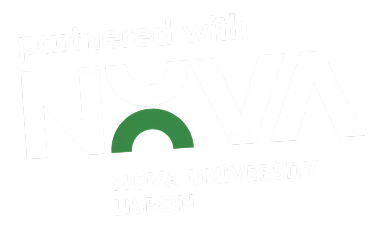
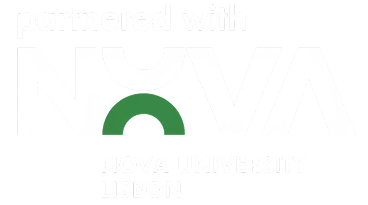
feat: update PartnersSection component; enhance layout, integrate new images, and improve interactivity

Changed region(s): [[0.269, 0.439, 0.4783, 0.6732], [0.3587, 0.5268, 0.5082, 0.6732]]

diff --git a/src/components/sections/PartnersSection.tsx b/src/components/sections/PartnersSection.tsx
@@ -1,127 +1,233 @@
+import { useState } from "react";
 import { motion } from "framer-motion";
 import { Button } from "../ui/Button";
-import NOVALogo from "../../assets/svg/menu-logo-nova.svg";
-import CoventryLogo from "../../assets/svg/menu-logo-coventry.svg";
+
+import imgNova from "../../assets/media/universities-university-image.jpeg";
+import NOVALogo from "../../assets/media/image 29.png";
+import CoventryLogo from "../../assets/media/image 30.png";
+import imgCoventry from "../../assets/media/universities-university-image-1.jpeg";
 
 export const PartnersSection = () => {
+  const [hoveredCard, setHoveredCard] = useState<string | null>(null);
+
   const partners = [
+    {
+      id: "coventry-1",
+      name: "Coventry University",
+      logo: CoventryLogo,
+      image: imgCoventry,
+      rotation: 5,
+      position: "top-left",
+      smallOverlayType: "stats",
+      stats: [
+        {
+          title: "5 stars",
+          desc: "Overall Rating & Internationalization QS Stars University Ratings",
+        },
+        {
+          title: "Queen's Award",
+          desc: "For Enterprise International Trade 2022",
+        },
+        {
+          title: "12th on world",
+          desc: "for international outlook The Young University Rankings 2024",
+        },
+      ],
+      link: "#",
+    },
     {
       id: "nova",
       name: "NOVA University",
       logo: NOVALogo,
-      image: "https://images.unsplash.com/photo-1564069114553-7215e1ff1890?q=80&w=1200&auto=format&fit=crop",
+      image: imgNova,
+      rotation: -5,
+      position: "top-right",
+      smallOverlayType: "logo",
       stats: [
-        { title: "5 stars", desc: "Overall Rating & Internationalization QS Stars University Ratings" },
-        { title: "Queen's Award", desc: "For Enterprise International Trade 2022" },
-        { title: "12th on world", desc: "for international outlook The Young University Rankings 2024" }
+        { title: "Top 10", desc: "Best Young Universities in Europe" },
+        { title: "Triple Crown", desc: "Accreditation for Business School" },
+        { title: "Global Reach", desc: "Extensive international network" },
       ],
-      link: "#"
+      link: "#",
     },
     {
-      id: "coventry",
+      id: "coventry-2",
+      name: "Coventry University",
+      logo: NOVALogo,
+      image: imgNova,
+      rotation: -5,
+      position: "bottom-left",
+      smallOverlayType: "stats",
+      stats: [
+        {
+          title: "5 stars",
+          desc: "Overall Rating & Internationalization QS Stars University Ratings",
+        },
+        {
+          title: "Queen's Award",
+          desc: "For Enterprise International Trade 2022",
+        },
+        {
+          title: "12th on world",
+          desc: "for international outlook The Young University Rankings 2024",
+        },
+      ],
+      link: "#",
+    },
+    {
+      id: "coventry-3",
       name: "Coventry University",
       logo: CoventryLogo,
-      image: "https://images.unsplash.com/photo-1606761568499-6d2451b23c66?q=80&w=1200&auto=format&fit=crop",
+      image: imgCoventry,
+      rotation: 5,
+      position: "bottom-right",
+      smallOverlayType: "logo",
       stats: [
-        { title: "5 stars", desc: "Overall Rating & Internationalization QS Stars University Ratings" },
-        { title: "Queen's Award", desc: "For Enterprise International Trade 2022" },
-        { title: "12th on world", desc: "for international outlook The Young University Rankings 2024" }
+        {
+          title: "5 stars",
+          desc: "Overall Rating & Internationalization QS Stars University Ratings",
+        },
+        {
+          title: "Queen's Award",
+          desc: "For Enterprise International Trade 2022",
+        },
+        {
+          title: "12th on world",
+          desc: "for international outlook The Young University Rankings 2024",
+        },
       ],
-      link: "#"
-    }
+      link: "#",
+    },
   ];
 
+  const getPositionClasses = (position: string) => {
+    switch (position) {
+      case "top-left": return "top-0 left-0 origin-center";
+      case "top-right": return "top-[8%] right-0 origin-center";
+      case "bottom-left": return "bottom-[8%] left-0 origin-center";
+      case "bottom-right": return "bottom-0 right-0 origin-center";
+      default: return "";
+    }
+  };
+
   return (
-    <section className="py-2xl lg:py-4xl w-full px-m lg:px-m xl:px-[120px] bg-surface-primary">
-      <div className="flex flex-col items-center text-center mb-xl lg:mb-3xl px-0 lg:px-xl">
-        <span className="hidden lg:block text-body-2 font-bold text-text-tkh-primary uppercase tracking-wider mb-xs">
-          Partner with Excellence
-        </span>
-        <span className="lg:hidden text-body-2 font-bold text-text-tkh-primary uppercase tracking-wider mb-xs bg-surface-inactive/50 px-s py-xs rounded-full">
-          Study With Us
-        </span>
-        
-        <h2 className="hidden lg:block text-h2 text-text-primary mb-m max-w-3xl">
-          Study with The World’s Top Ranked Universities
-        </h2>
-        <h2 className="lg:hidden text-h2 text-text-primary mb-xs">
-          Find your path
-        </h2>
-        
-        <p className="hidden lg:block text-body-1 text-text-secondary max-w-2xl mx-auto">
-          TKH partners with prestigious European and UK universities to bring their academic excellence to Egypt.
-        </p>
-        <p className="lg:hidden text-body-1 text-text-secondary max-w-xs mx-auto">
-          from 20+ programs across our partner universities
-        </p>
+    <section className="py-2xl lg:py-4xl w-full px-m xl:px-30 max-w-480 mx-auto bg-surface-primary overflow-hidden">
+      
+      {/* Mobile Layout (Flex Column) */}
+      <div className="lg:hidden flex flex-col gap-l">
+         <div className="flex flex-col items-center text-center">
+            <span className="text-button-2 font-bold text-white bg-brand-blue-200 mb-xs px-s py-xs">
+              Partner with Excellence
+            </span>
+            <h2 className="text-h2 text-text-primary mb-xs font-bold">
+              Study with The World’s Top Ranked Universities
+            </h2>
+            <p className="text-body-2 text-text-secondary">
+              TKH partners with prestigious European and UK universities to bring their academic excellence to Egypt.
+            </p>
+         </div>
+
+         <div className="flex flex-col gap-m mt-m">
+            {partners.map(p => (
+               <div key={p.id} className="relative w-full h-[400px] rounded-3xl overflow-hidden shadow-lg">
+                  <img src={p.image} className="absolute inset-0 w-full h-full object-cover" />
+                  <div className="absolute inset-0 bg-gradient-to-t from-black/80 via-black/20 to-transparent" />
+                  <div className="absolute inset-0 p-l flex flex-col justify-end">
+                     <img src={p.logo} className="h-16 object-contain mb-m origin-left brightness-0 invert" style={{ objectPosition: 'left' }} />
+                     <Button variant="primary" icon className="w-max">Explore {p.name.split(' ')[0]}</Button>
+                  </div>
+               </div>
+            ))}
+         </div>
       </div>
 
-      {/* Cards Grid */}
-      <div className="grid grid-cols-1 lg:grid-cols-2 gap-m lg:gap-xl px-0 lg:px-xl">
-        {partners.map((partner, index) => (
-          <motion.div 
-            key={partner.id}
-            initial={{ opacity: 0, y: 30 }}
-            whileInView={{ opacity: 1, y: 0 }}
-            viewport={{ once: true, margin: "-50px" }}
-            transition={{ duration: 0.6, delay: index * 0.2 }}
-            className="bg-surface-primary rounded-[32px] lg:rounded-[32px] overflow-hidden shadow-sm hover:shadow-xl transition-shadow flex flex-col h-[400px] lg:h-full border border-stroke-primary group relative"
-          >
-            {/* Desktop Top Banner Image */}
-            <div className="hidden lg:block w-full h-[240px] overflow-hidden relative">
-              <img 
-                src={partner.image} 
-                alt={partner.name} 
-                className="w-full h-full object-cover group-hover:scale-105 transition-transform duration-700"
-              />
-              <div className="absolute inset-0 bg-surface-invert/10"></div>
-            </div>
+      {/* Desktop Layout (Interactive Hover Expansion) */}
+      <div className="hidden lg:block relative w-full h-[700px] mt-xl">
+         
+         {/* Center Text */}
+         <div className="absolute inset-0 flex flex-col items-center justify-center pointer-events-none z-10">
+            <span className="text-button-2 font-bold text-white bg-brand-blue-200 mb-m px-m py-s rounded-sm shadow-sm">
+              Partner with Excellence
+            </span>
+            <h2 className="text-h2 text-text-primary mb-m max-w-[500px] text-center font-extrabold leading-tight">
+              Study with The World’s Top Ranked Universities
+            </h2>
+            <p className="text-body-1 text-text-secondary max-w-[400px] text-center">
+              TKH partners with prestigious European and UK universities to bring their academic excellence to Egypt.
+            </p>
+         </div>
 
-            {/* Mobile Full Background Image */}
-            <div className="lg:hidden absolute inset-0 z-0">
-              <img 
-                src={partner.image} 
-                alt={partner.name} 
-                className="w-full h-full object-cover"
-              />
-              <div className="absolute inset-0 bg-gradient-to-t from-surface-invert/90 via-surface-invert/20 to-transparent"></div>
-            </div>
-            
-            {/* Mobile Card Content */}
-            <div className="lg:hidden relative z-10 flex flex-col h-full justify-between p-xl">
-              <div className="bg-surface-primary/90 backdrop-blur-sm w-16 h-16 rounded-[16px] flex items-center justify-center p-2 shadow-md">
-                <img src={partner.logo} alt={partner.name} className="w-full h-auto" />
-              </div>
-              <div className="flex justify-between items-end">
-                <div className="bg-surface-primary rounded-full px-m py-s flex items-center shadow-md">
-                  <span className="text-button-2 font-bold text-text-primary">Learn More</span>
-                </div>
-                <div className="w-12 h-12 bg-surface-primary rounded-full flex items-center justify-center shadow-md text-text-tkh-primary">
-                  <svg width="24" height="24" viewBox="0 0 24 24" fill="none" stroke="currentColor" strokeWidth="2" strokeLinecap="round" strokeLinejoin="round"><path d="M5 12h14"></path><path d="m12 5 7 7-7 7"></path></svg>
-                </div>
-              </div>
-            </div>
-            
-            {/* Desktop Card Content */}
-            <div className="hidden lg:flex p-xl flex-col flex-1 relative z-10 bg-surface-primary">
-              <div className="flex flex-col sm:flex-row justify-between items-start sm:items-center gap-m mb-xl">
-                <h3 className="text-h3 font-bold text-text-primary uppercase tracking-tight">{partner.name}</h3>
-                <Button variant="outline" size="tablet" className="shrink-0" icon={true}>
-                  Explore {partner.name.split(' ')[0]}
-                </Button>
-              </div>
-              
-              <div className="flex flex-col gap-m border-t border-stroke-primary pt-xl flex-1">
-                {partner.stats.map((stat, i) => (
-                  <div key={i} className="flex flex-col sm:flex-row gap-xs sm:gap-m border-b border-stroke-primary/50 pb-m last:border-0 last:pb-0">
-                    <span className="text-button-1 text-text-tkh-primary whitespace-nowrap min-w-[140px]">{stat.title}</span>
-                    <span className="text-body-2 text-text-secondary">{stat.desc}</span>
+         {/* Interactive Cards */}
+         {partners.map((p) => {
+           const isHovered = hoveredCard === p.id;
+           const isAnyHovered = hoveredCard !== null;
+           
+           return (
+             <motion.div
+               key={p.id}
+               layout
+               onMouseEnter={() => setHoveredCard(p.id)}
+               onMouseLeave={() => setHoveredCard(null)}
+               className={`absolute overflow-hidden shadow-2xl cursor-pointer ${
+                 isHovered ? "inset-0 z-50 rounded-[40px]" : `${getPositionClasses(p.position)} w-[320px] xl:w-[380px] h-[220px] xl:h-[260px] z-20 rounded-[40px]`
+               }`}
+               style={{
+                 rotate: isHovered ? 0 : p.rotation
+               }}
+               transition={{ layout: { type: "spring", stiffness: 250, damping: 30 } }}
+             >
+               {/* Background Image (Counter-rotated when small to keep buildings straight) */}
+               <motion.img
+                 layout
+                 src={p.image}
+                 className="absolute inset-0 w-full h-full object-cover origin-center"
+                 animate={{ rotate: isHovered ? 0 : -p.rotation, scale: isHovered ? 1 : 1.25 }}
+                 transition={{ type: "spring", stiffness: 250, damping: 30 }}
+               />
+               
+               {/* Dark Gradient Overlay */}
+               <motion.div 
+                 className="absolute inset-0 bg-gradient-to-t from-[#1F1916]/80 via-[#1F1916]/30 to-transparent"
+                 animate={{ opacity: isHovered ? 0.9 : 0.6 }}
+               />
+
+               {/* Card Content */}
+               <motion.div layout className="absolute inset-0 flex flex-col justify-end p-8 lg:p-10 z-30">
+                  <div className="flex justify-between items-end w-full">
+                    
+                    {/* Logo & Button (Left Side) */}
+                    <motion.div 
+                      animate={{ opacity: isHovered || p.smallOverlayType === "logo" ? 1 : 0 }} 
+                      className="flex flex-col gap-6 items-start"
+                    >
+                      <img src={p.logo} className="h-16 lg:h-24 object-contain brightness-0 invert origin-left" style={{ objectPosition: 'left' }} />
+                      {/* Using motion.div wrapper to ensure button doesn't shrink awkwardly during layout animation */}
+                      <motion.div layout className="w-max">
+                         <Button variant="primary" size="desktop" className="rounded-full shadow-lg" icon>
+                           Explore {p.name.split(' ')[0]}
+                         </Button>
+                      </motion.div>
+                    </motion.div>
+                    
+                    {/* Stats (Right Side) */}
+                    <motion.div 
+                      animate={{ opacity: isHovered || p.smallOverlayType === "stats" ? 1 : 0 }}
+                      className="flex gap-6 lg:gap-10 bg-black/20 backdrop-blur-md p-l rounded-3xl border border-white/10"
+                    >
+                      {p.stats.map((stat, i) => (
+                        <div key={i} className="flex flex-col gap-1 max-w-[140px]">
+                          <span className="text-white font-bold text-h6 lg:text-h5 leading-tight">{stat.title}</span>
+                          <span className="text-white/80 text-cap-1 lg:text-body-2 leading-snug">{stat.desc}</span>
+                        </div>
+                      ))}
+                    </motion.div>
+
                   </div>
-                ))}
-              </div>
-            </div>
-          </motion.div>
-        ))}
+               </motion.div>
+
+             </motion.div>
+           );
+         })}
       </div>
     </section>
   );
